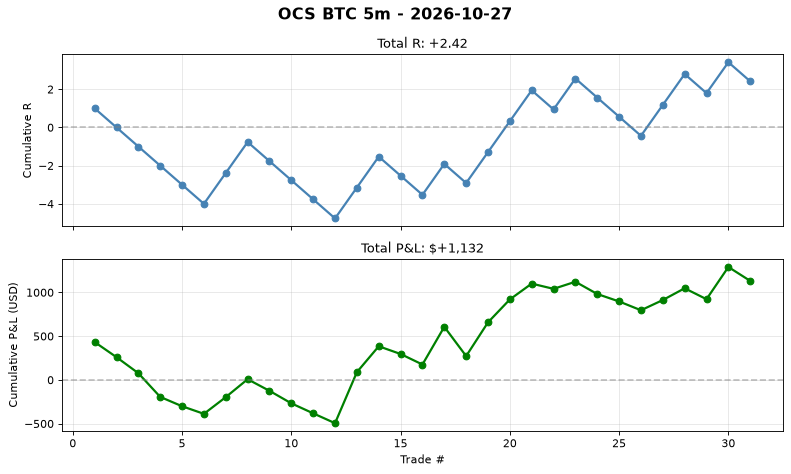
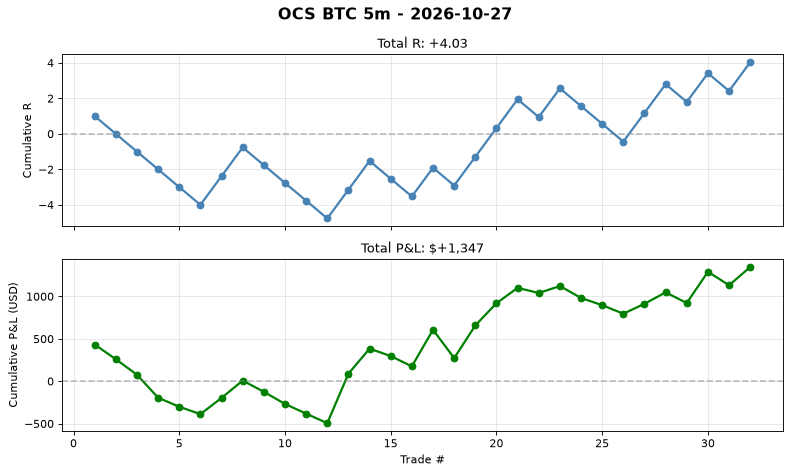
auto(ocs-btc): signal log 2026-10-27T00:51 trades=32

diff --git a/automation/reports/ocs_btc_5m/daily/2026-10-27.md b/automation/reports/ocs_btc_5m/daily/2026-10-27.md
@@ -1,5 +1,37 @@
 # OCS BTC 5m - 2026-10-27
 
-**No trades today.**
+## Summary
+- **Trades**: 1 (1W / 0L)
+- **Win Rate**: 100.0%
+- **Total R**: +1.62R
+- **Total P&L**: $+215
+- **Avg R**: +1.62R
+- **Profit Factor**: 1.22
 
-Cumulative stats: 31 trades | WR 41.9% | avg R 0.078
+## Exit Breakdown
+- T1 (+1.0R): 1
+- T2 (+1.618R): 13
+- T3 (+2.618R): 0
+- T4 (+3.618R): 0
+- T5 (+5.0R): 0
+- SL (-1.0R): 18
+
+## Best Trade
+- **LONG** at 80,007 -> T2 80,222
+- R = +1.62, P&L = $+215
+- Held for 8 bars
+
+## Worst Trade
+- **LONG** at 80,007 -> T2 80,222
+- R = +1.62, P&L = $+215
+- Held for 8 bars
+
+## Cumulative Stats (Lifetime)
+- Total trades: 32
+- WR: 43.8%
+- Avg R: 0.126
+- Total R: +4.03R
+- Profit Factor: 1.22
+
+## Chart
+See `daily/2026-10-27.png` for cumulative P&L curve.
